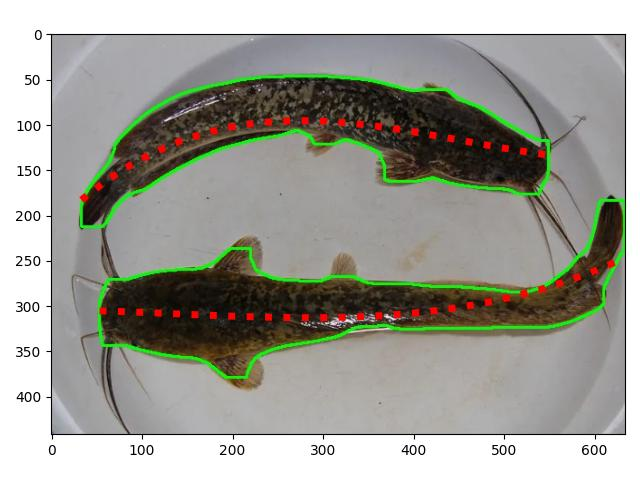
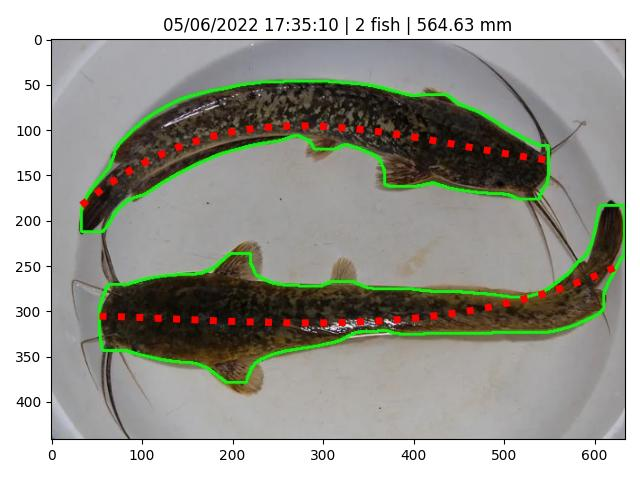
Add text_fish_length into final.jpg Fixes #3

diff --git a/src/mafunction.py b/src/mafunction.py
@@ -5,7 +5,7 @@ import math
 import json
 import os
 import base64
-import datetime
+from datetime import datetime
 
 import src.segmentation as s
 
@@ -407,11 +407,25 @@ def generate_resultjson():
         f.write('{\n')
         f.write('\t"result": {\n')
         
-        now = datetime.datetime.now()
+        now = datetime.now()
+        now = now.strftime("%m/%d/%Y %H:%M:%S")
         f.write('\t\t"datetime": "' + str(now) + '",\n')
         f.write('\t\t"num_fish": ' + str( len(s.cnts) ) + ',\n')
         f.write('\t\t"avg_fishlength": ' + str( avg_fishlength() ) + '\n')
         f.write('\t}\n}')
+
+
+def get_info_resultjson(info='datetime'):
+    # info = 'datetime' | 'num_fish' | 'avg_fishlengh'
+    with open('tmp/result.json', 'r') as fp:
+        data = json.load(fp)
+
+        for val in data.values():
+            if info == 'avg_fishlength':
+                return str( round(val[info],2) )
+            else:
+                return str(val[info])
+            
 
 
 def plot_curve2img(title='final.jpg', showPlot=False):
@@ -430,31 +444,17 @@ def plot_curve2img(title='final.jpg', showPlot=False):
             y = data[key]['y']
             
             ax.plot(x, y, ls='dotted', linewidth=5, color='red')
-            fishlength_text(x,y)
     
+    # Add text: datetime, num_of_fish, avg_fishlength
+    dtt = get_info_resultjson('datetime')
+    num = get_info_resultjson('num_fish') + ' fish'
+    avg = get_info_resultjson('avg_fishlength') + ' mm'
+    text_str = str(dtt + ' | ' + num + ' | ' + avg)
+    ax.set_title(text_str)
+
     if showPlot: plt.show()
     plt.savefig('imgcv/final.jpg')
     s.final = cv.imread('imgcv/final.jpg')
     s.list_img[len(s.list_img)-1][2] = s.final
     print( str('Plot curve to original img').ljust(37,'.') + str('Done').rjust(5,' '), end='\n\n')
 
-
-def fishlength_text(x,y):
-    path = 'imgcv/final.jpg'
-    image = cv.imread(path)
-    
-    window_name = 'FINAL'
-    font = cv.FONT_HERSHEY_SIMPLEX
-    org = (int(x[0] ), int( y[0] ) )
-    fontScale = 1
-    color = (255, 0, 0)
-    thickness = 2
-    
-    with open('tmp/fish_length.json', 'r') as fp:
-        data = json.load(fp)
-
-        text_str = str( 'asad' )
-    image = cv.putText(image, text_str, org, font, 
-                    fontScale, color, thickness, cv.LINE_AA)
-    
-    cv.imshow(window_name, image)
